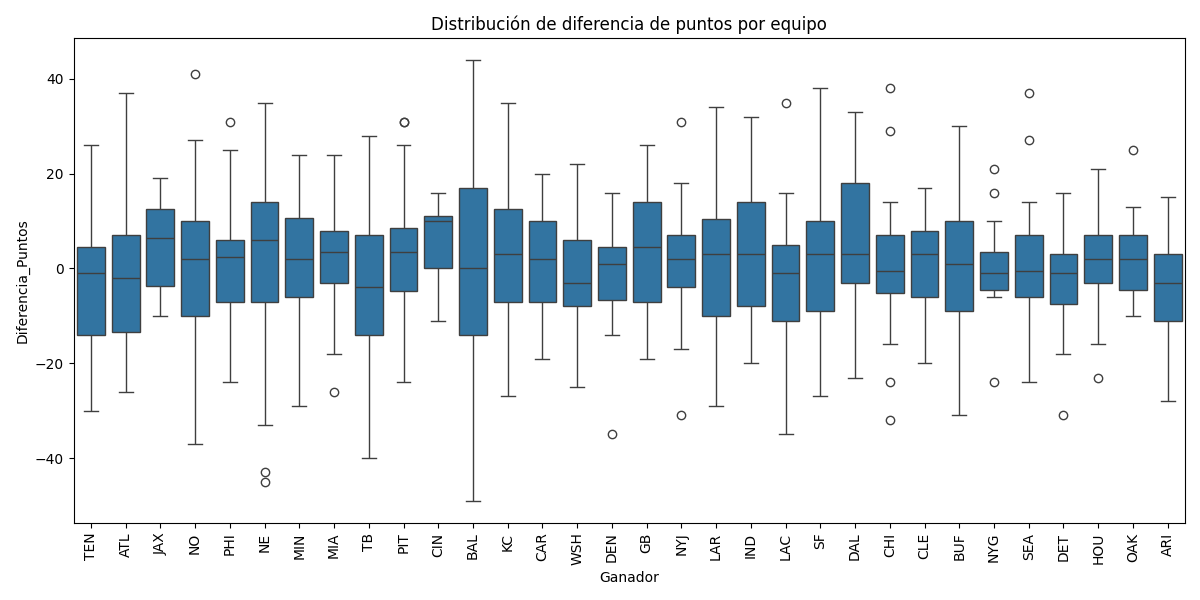
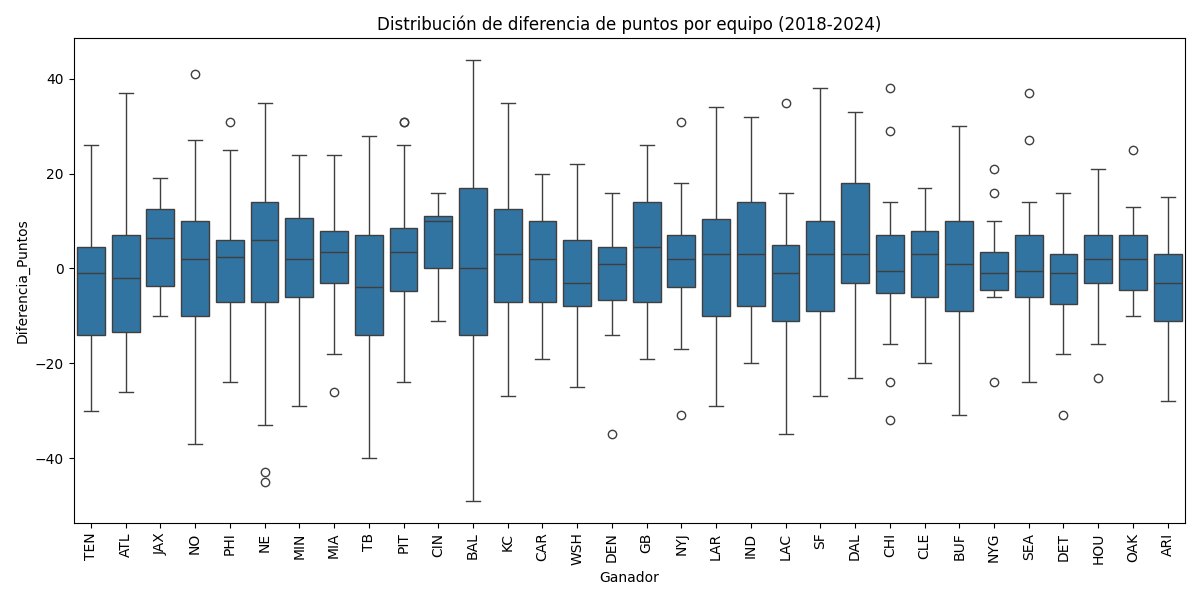
Agregar año a los KPIS

Changed region(s): [[0.3083, 0.03, 0.74, 0.06]]

diff --git a/nfl_etl.py b/nfl_etl.py
@@ -8,6 +8,7 @@ import numpy as np
 # Configuración
 URL = 'https://raw.githubusercontent.com/fivethirtyeight/nfl-elo-game/master/data/nfl_games.csv'
 ULTIMO_ANO = 2018
+PROYECCION_ANO = 2025
 CARPETA_GRAFICOS = "graficos"
 
 # --------------------------
@@ -45,7 +46,7 @@ def generar_dashboard(df):
     plt.figure(figsize=(12,6))
     sns.barplot(x='Equipo', y='Victorias', data=victorias)
     plt.xticks(rotation=90)
-    plt.title('Victorias por equipo (2018-2024)')
+    plt.title(f'Victorias por equipo (2018-{PROYECCION_ANO-1})')
     plt.tight_layout()
     plt.savefig(f'{CARPETA_GRAFICOS}/victorias_equipo.png')
     plt.close()
@@ -55,7 +56,7 @@ def generar_dashboard(df):
     plt.figure(figsize=(12,6))
     sns.barplot(x='Ganador', y='Diferencia_Puntos', data=diff_prom)
     plt.xticks(rotation=90)
-    plt.title('Diferencia de puntos promedio por equipo')
+    plt.title(f'Diferencia de puntos promedio por equipo (2018-{PROYECCION_ANO-1})')
     plt.tight_layout()
     plt.savefig(f'{CARPETA_GRAFICOS}/diferencia_promedio.png')
     plt.close()
@@ -64,7 +65,7 @@ def generar_dashboard(df):
     ganados_anio = df.groupby(['Año','Ganador']).size().reset_index(name='Partidos_Ganados')
     plt.figure(figsize=(12,6))
     sns.lineplot(data=ganados_anio, x='Año', y='Partidos_Ganados', hue='Ganador', legend=None)
-    plt.title('Partidos ganados por año')
+    plt.title(f'Partidos ganados por año (2018-{PROYECCION_ANO-1})')
     plt.savefig(f'{CARPETA_GRAFICOS}/partidos_ganados_anio.png')
     plt.close()
 
@@ -72,7 +73,7 @@ def generar_dashboard(df):
     plt.figure(figsize=(12,6))
     sns.boxplot(x='Ganador', y='Diferencia_Puntos', data=df)
     plt.xticks(rotation=90)
-    plt.title('Distribución de diferencia de puntos por equipo')
+    plt.title(f'Distribución de diferencia de puntos por equipo (2018-{PROYECCION_ANO-1})')
     plt.tight_layout()
     plt.savefig(f'{CARPETA_GRAFICOS}/boxplot_diferencia_puntos.png')
     plt.close()
@@ -82,7 +83,7 @@ def generar_dashboard(df):
     df_top5 = df[df['Ganador'].isin(top5_victorias)]
     plt.figure(figsize=(12,6))
     sns.barplot(x='Ganador', y='Diferencia_Puntos', data=df_top5, estimator=lambda x: sum(x>0))
-    plt.title('Top 5 equipos por victorias: cantidad de partidos con diferencia positiva')
+    plt.title(f'Top 5 equipos por victorias: cantidad de partidos con diferencia positiva (2018-{PROYECCION_ANO-1})')
     plt.tight_layout()
     plt.savefig(f'{CARPETA_GRAFICOS}/top5_diferencia.png')
     plt.close()
@@ -94,7 +95,7 @@ def generar_dashboard(df):
     plt.figure(figsize=(12,6))
     sns.barplot(x='Equipo', y='Victorias_Proyectadas', data=proyeccion.sort_values('Victorias_Proyectadas', ascending=False))
     plt.xticks(rotation=90)
-    plt.title('Proyección de victorias por equipo para el siguiente año')
+    plt.title(f'Proyección de victorias por equipo para la temporada {PROYECCION_ANO}')
     plt.tight_layout()
     plt.savefig(f'{CARPETA_GRAFICOS}/proyeccion_victorias.png')
     plt.close()
@@ -108,7 +109,7 @@ def generar_dashboard(df):
     kpi_defensiva(df)
 
     # --------------------
-    # 9⃣ Proyección del Super Bowl
+    # 9⃣ Proyección ganador Super Bowl
     proyectar_super_bowl(df, proyeccion, diff_prom)
 
     print("Todos los gráficos del dashboard se han generado en la carpeta:", CARPETA_GRAFICOS)
@@ -117,7 +118,6 @@ def generar_dashboard(df):
 # KPIs ofensiva y defensiva
 # --------------------------
 def kpi_ofensiva(df):
-    # Simulación de yardas basadas en puntajes
     df_of = df.copy()
     df_of['yards_team1'] = df_of['score1'] * 10
     df_of['yards_team2'] = df_of['score2'] * 10
@@ -132,20 +132,18 @@ def kpi_ofensiva(df):
     plt.figure(figsize=(12,6))
     sns.barplot(x='Equipo', y='Yardas', data=yardas_promedio.sort_values('Yardas', ascending=False))
     plt.xticks(rotation=90)
-    plt.title('Mejores ofensivas (yardas promedio por partido)')
+    plt.title(f'Mejores ofensivas (yardas promedio por partido) temporada {PROYECCION_ANO}')
     plt.tight_layout()
     plt.savefig(f'{CARPETA_GRAFICOS}/mejores_ofensivas.png')
     plt.close()
 
 def kpi_defensiva(df):
-    # Simulación de sacks y yardas permitidas
     df_def = df.copy()
     df_def['sacks_team1'] = df_def['score2'] // 10
     df_def['sacks_team2'] = df_def['score1'] // 10
     df_def['yards_allowed_team1'] = df_def['score2'] * 15
     df_def['yards_allowed_team2'] = df_def['score1'] * 15
     
-    # Sumar por equipo
     sacks = pd.concat([
         df_def[['team1','sacks_team1']].rename(columns={'team1':'Equipo','sacks_team1':'Sacks'}),
         df_def[['team2','sacks_team2']].rename(columns={'team2':'Equipo','sacks_team2':'Sacks'})
@@ -158,20 +156,18 @@ def kpi_defensiva(df):
     ])
     yards_promedio = yards_allowed.groupby('Equipo')['YardasPermitidas'].mean().reset_index()
     
-    # Gráfico Sacks
     plt.figure(figsize=(12,6))
     sns.barplot(x='Equipo', y='Sacks', data=sacks_promedio.sort_values('Sacks', ascending=False))
     plt.xticks(rotation=90)
-    plt.title('Defensas con más sacks promedio')
+    plt.title(f'Defensas con más sacks promedio temporada {PROYECCION_ANO}')
     plt.tight_layout()
     plt.savefig(f'{CARPETA_GRAFICOS}/defensas_sacks.png')
     plt.close()
     
-    # Gráfico Yardas permitidas
     plt.figure(figsize=(12,6))
     sns.barplot(x='Equipo', y='YardasPermitidas', data=yards_promedio.sort_values('YardasPermitidas'))
     plt.xticks(rotation=90)
-    plt.title('Defensas con menos yardas permitidas promedio')
+    plt.title(f'Defensas con menos yardas permitidas promedio temporada {PROYECCION_ANO}')
     plt.tight_layout()
     plt.savefig(f'{CARPETA_GRAFICOS}/defensas_yardas_permitidas.png')
     plt.close()
@@ -180,19 +176,14 @@ def kpi_defensiva(df):
 # Proyección ganador Super Bowl
 # --------------------------
 def proyectar_super_bowl(df, victorias_proj, diff_prom):
-    """
-    Proyección simple: combinamos victorias proyectadas y diferencia de puntos promedio.
-    Elegimos el equipo con mayor valor combinado como favorito al Super Bowl.
-    """
     merged = pd.merge(victorias_proj, diff_prom, left_on='Equipo', right_on='Ganador')
     merged['Score'] = merged['Victorias_Proyectadas'] + merged['Diferencia_Puntos']
-    
     ganador_favorito = merged.sort_values('Score', ascending=False).iloc[0]['Equipo']
     
     plt.figure(figsize=(8,6))
     sns.barplot(x='Equipo', y='Score', data=merged.sort_values('Score', ascending=False))
     plt.xticks(rotation=90)
-    plt.title(f'Proyección del ganador del Super Bowl: {ganador_favorito}')
+    plt.title(f'Proyección del ganador del Super Bowl temporada {PROYECCION_ANO}: {ganador_favorito}')
     plt.tight_layout()
     plt.savefig(f'{CARPETA_GRAFICOS}/proyeccion_super_bowl.png')
     plt.close()
